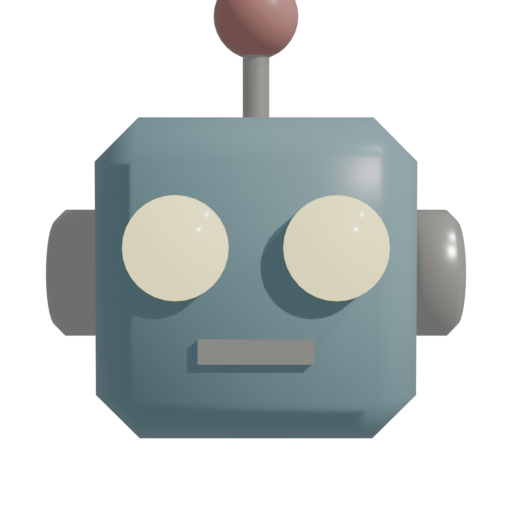
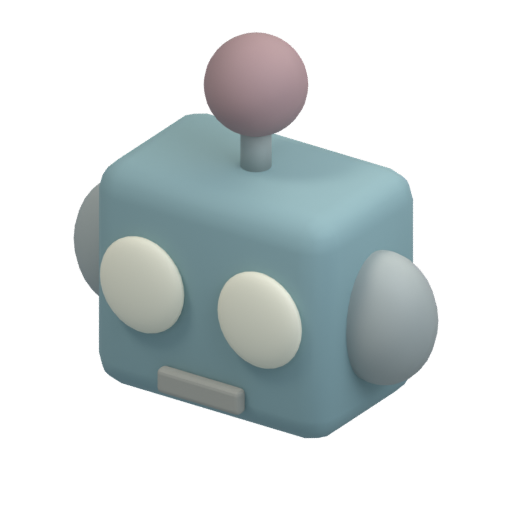
fix(art): complete robot sprite and legacy asset audit

diff --git a/assets/harvest_3d/source/pipeline/audit.py b/assets/harvest_3d/source/pipeline/audit.py
@@ -60,7 +60,8 @@ def measure(path):
     }
 
 
-def check(path, m, allow_edge=False, deep=False, floats=False):
+def check(path, m, allow_edge=False, deep=False, floats=False,
+          black_outline=False):
     rules = dict(CONTRACT['audit'])
     if floats:
         # A butterfly or a windmill's sails never touch the ground; the
@@ -104,7 +105,8 @@ def check(path, m, allow_edge=False, deep=False, floats=False):
         if abs(off) > float(rules['footprint_centre_tolerance_px']):
             errors.append('footprint centre is %+.0f px from the pivot column %d'
                           % (off, px))
-    if m['semi'] and m['black_fringe'] / m['semi'] > float(rules['black_fringe_max_fraction']):
+    if (not black_outline and m['semi']
+            and m['black_fringe'] / m['semi'] > float(rules['black_fringe_max_fraction'])):
         errors.append('%d of %d semi-transparent pixels are black: a dark fringe, the '
                       'alpha was premultiplied or the background leaked in'
                       % (m['black_fringe'], m['semi']))
@@ -232,6 +234,7 @@ def main(argv):
     edge_ok = set()
     deep = set()
     floats = set()
+    black_outline = set()
     if manifest:
         for a in manifest.get('assets', []):
             if a.get('footprint_reaches_edge'):
@@ -240,6 +243,8 @@ def main(argv):
                 deep.add(a['id'])
             if a.get('floats'):
                 floats.add(a['id'])
+            if a.get('audit', {}).get('black_outline'):
+                black_outline.add(a['id'])
             if list(a.get('ground_pivot_pixel', [])) != list(CONTRACT['ground_pivot_pixel']):
                 print('ERROR manifest: %s pivot %s, contract %s'
                       % (a['id'], a.get('ground_pivot_pixel'), CONTRACT['ground_pivot_pixel']))
@@ -261,6 +266,29 @@ def main(argv):
                 deep.add(r.stem)
             if recipe.get('floats'):
                 floats.add(r.stem)
+        # Older hand-painted props have per-file notes for items and buildings
+        # that are not made by the current Blender recipe set.
+        for png in pngs:
+            sidecar = png.with_suffix('.json')
+            if not sidecar.is_file():
+                continue
+            metadata = json.loads(sidecar.read_text())
+            policy = metadata.get('audit', {})
+            if not isinstance(policy, dict):
+                print('ERROR %s: audit sidecar field must be an object' % sidecar.name)
+                return 1
+            invalid = {key: value for key, value in policy.items()
+                       if key not in {'deep_footprint', 'floats', 'black_outline'}
+                       or not isinstance(value, bool)}
+            if invalid:
+                print('ERROR %s: invalid audit policy %s' % (sidecar.name, invalid))
+                return 1
+            if policy.get('deep_footprint'):
+                deep.add(png.stem)
+            if policy.get('floats'):
+                floats.add(png.stem)
+            if policy.get('black_outline'):
+                black_outline.add(png.stem)
     failures = 0
     textures = 0
     items = []
@@ -272,7 +300,8 @@ def main(argv):
             errors = check_texture(png, m, spec)
         else:
             errors = check(png, m, allow_edge=png.stem in edge_ok, deep=png.stem in deep,
-                           floats=png.stem in floats)
+                           floats=png.stem in floats,
+                           black_outline=png.stem in black_outline)
         items.append((png.stem, m['image'], spec is not None))
         if errors:
             failures += 1

diff --git a/assets/harvest_3d/source/pipeline/test_pipeline.py b/assets/harvest_3d/source/pipeline/test_pipeline.py
@@ -58,6 +58,11 @@ for rid, r in recipes.items():
     sh = r.get('shadow', {})
     ok(isinstance(sh.get('baked'), bool) and len(sh.get('size', [])) == 2,
        '%s.json: shadow needs {"baked": bool, "size": [sx, sy]}' % rid)
+    audit_policy = r.get('audit', {})
+    ok(isinstance(audit_policy, dict)
+       and set(audit_policy) <= {'deep_footprint', 'floats', 'black_outline'}
+       and all(isinstance(value, bool) for value in audit_policy.values()),
+       '%s.json: audit policy must use known boolean flags' % rid)
 
 # 2. the data and the runtime agree with the recipes
 crop_ids = [c['id'] for c in json.load(open(GAME / 'data/harvest_crops.json'))]
@@ -134,6 +139,8 @@ with tempfile.TemporaryDirectory() as tmp:
     fringe.save(fringe_path)
     errs = audit.check(fringe_path, audit.measure(fringe_path))
     ok(any('fringe' in e for e in errs), 'a black-fringed carrot was accepted')
+    errs = audit.check(fringe_path, audit.measure(fringe_path), black_outline=True)
+    ok(not any('fringe' in e for e in errs), 'an explicit outline policy was ignored')
 
     blank = Image.new('RGBA', (512, 512))
     blank_path = Path(tmp) / 'blank.png'

diff --git a/assets/harvest_3d/source/pipeline/models/robot.py b/assets/harvest_3d/source/pipeline/models/robot.py
@@ -1,0 +1,24 @@
+"""A friendly, softly bevelled robot head with a restored round antenna."""
+
+
+def build(S, P):
+    M = S.M
+
+    # The head is a rounded toy shell. Soft oval ear drums sit just outside it.
+    S.block('Robot | head shell', (0, 0, 1.02), (1.36, 0.88, 1.18),
+            M['robot_shell'], bevel=0.15, smooth=True)
+    for side in (-1, 1):
+        S.uv('Robot | ear pod', (side * 0.73, 0.0, 1.0),
+             (0.28, 0.24, 0.34), M['robot_side'], 24, 16)
+
+    # Warm eyes and a small mouth keep the face legible at visitor-icon size.
+    for side in (-1, 1):
+        S.uv('Robot | eye', (side * 0.34, -0.47, 1.07),
+             (0.24, 0.07, 0.25), M['white'], 24, 16)
+
+    S.block('Robot | mouth', (0.0, -0.468, 0.60), (0.48, 0.07, 0.13),
+            M['robot_mouth'], bevel=0.025, smooth=False)
+    S.cyl('Robot | antenna stem', (0.0, 0.0, 1.74), 0.075, 0.34,
+          M['robot_side'], verts=24, smooth=True)
+    S.uv('Robot | antenna orb', (0.0, 0.0, 2.04),
+         (0.25, 0.25, 0.25), M['robot_antenna'], 32, 20)

diff --git a/assets/harvest_3d/source/pipeline/build.py b/assets/harvest_3d/source/pipeline/build.py
@@ -95,12 +95,15 @@ def project_anchors(studio, recipe):
 
 def sidecar_metadata(recipe, entry):
     """Keep explicit anchors even for assets whose contact shadow is baked."""
-    if entry['contact_shadow_baked'] and not entry.get('anchors_px'):
+    if (entry['contact_shadow_baked'] and not entry.get('anchors_px')
+            and not entry.get('audit')):
         return None
     metadata = {'contact_shadow_baked': entry['contact_shadow_baked'],
                 'source': 'pipeline/recipes/%s.json' % recipe['id']}
     if entry.get('anchors_px'):
         metadata['anchors_px'] = entry['anchors_px']
+    if entry.get('audit'):
+        metadata['audit'] = entry['audit']
     return metadata
 
 
@@ -183,6 +186,8 @@ def main(argv):
             entry['deep_footprint'] = True
         if r.get('floats'):
             entry['floats'] = True
+        if r.get('audit'):
+            entry['audit'] = r['audit']
         if r.get('anchors'):
             entry['anchors_px'] = project_anchors(S, r)
         if opts['glb']:

diff --git a/assets/harvest_3d/source/pipeline/test_pipeline_contracts.py b/assets/harvest_3d/source/pipeline/test_pipeline_contracts.py
@@ -93,6 +93,14 @@ class BuildContractTests(unittest.TestCase):
             self.assertEqual(metadata['contact_shadow_baked'], baked)
             self.assertEqual(metadata['anchors_px'], anchors)
 
+    def test_sidecar_preserves_explicit_audit_policy(self):
+        policy = {'black_outline': True}
+        metadata = build.sidecar_metadata(
+            {'id': 'basket_empty'},
+            {'contact_shadow_baked': True, 'audit': policy})
+        self.assertEqual(metadata['audit'], policy)
+        self.assertEqual(metadata['source'], 'pipeline/recipes/basket_empty.json')
+
     def test_manifest_anchor_coordinates_must_be_finite_in_canvas(self):
         self.assertEqual(audit.check_anchors({'surface': [256.0, 438.7]}), [])
         for anchors in ([], {'surface': [512, 200]}, {'surface': [float('inf'), 200]},

diff --git a/PLAN.md b/PLAN.md
@@ -194,21 +194,22 @@ These are yours to make. Nothing below has been changed without asking.
    `SubViewport`) with 32 GLB models under `assets/props_3d/`. The farm
    itself stays 2.5D. What still wants a decision: whether the farm's world
    layer follows, or whether the two styles meet only at the bear's door.
-5. **The asset pipeline is one studio and 73 recipes, and it has been
+5. **The asset pipeline is one studio and 74 recipes, and it has been
    run.** `assets/harvest_3d/source/pipeline/` opens the frozen render profile
    every shipped sprite came from, frames its camera on the (256, 467) pivot,
    and renders one model per recipe; `build.py` also writes the manifest and
    runs the Pillow audit and contact sheet. The 17 crops still match
    `assets/harvest_3d/crops/` to 0 or 1 pixel. On 10 October, Blender 5.2.2
-   rendered all 73 current recipes on this Mac; the full generated set passed
-   the audit with zero failures. `soil_cover` now has a `from_glb` recipe, and
+   rendered all 74 current recipes on this Mac; the full generated set passed
+   the audit with zero failures. `robot` now has a reproducible Blender model
+   with its complete antenna inside the frame. `soil_cover` has a `from_glb` recipe, and
    its GLB and frozen-profile fingerprints are checked against the actual
    files. `soil_grass_patch` was re-rendered through the same profile and
-   installed (the old one was lit by the other rig). What is left: retire the
-   fifteen old scripts (keep the frozen profile .blend they share) and bring
-   the remaining legacy prop sprites into the same audit contract. The
-   checked-in prop folder still has ten audit failures; see current
-   follow-through below.
+   installed (the old one was lit by the other rig). The checked-in crop and
+   prop sprites now pass the static audit; per-asset sidecar notes distinguish
+   hand-painted outlines and non-floor icons from accidental alpha fringes.
+   What remains is to retire the fifteen old scripts (keep the frozen profile
+   .blend they share).
 6. **The save file has two version fields.** `SAVE_VERSION` is written on
    every save and never read. `FARM_SAVE_VERSION` is the one migrations use.
    Folding them into one is a small change, but it touches every existing save,
@@ -249,15 +250,14 @@ These are yours to make. Nothing below has been changed without asking.
   30 passed and 0 skipped after the care, planting, and tilling controller
   extractions and touch fix;
   `tools_check.py` reports 0 errors and 208 warnings.
-- **3D pipeline follow-through:** Blender 5.2.2 rendered all 73 recipes into a
-  temporary review directory; all 73 passed the generated-output audit. The
-  separate static audit in `test_pipeline.py` still finds ten issues in the
-  checked-in props: semi-transparent dark edge pixels on `basket_empty`,
-  `building_beehive`, `building_cow_shed`, `milk`, `tool_trowel`, and
-  `tool_watering_can`; incorrect ground anchors on `firefly`, `fish`, and
-  `honey`; and a clipped antenna on `robot`. The current generated trowel and
-  watering can are much plainer than the shipped painted props, so they were
-  kept out of the project rather than replacing the better-looking art.
+- **3D pipeline follow-through:** Blender 5.2.2 rendered all 74 recipes into a
+  temporary review directory; all 74 passed the generated-output audit. The
+  robot now has a source model and complete antenna in both world and UI art.
+  The checked-in crop and prop folders pass their static audits. Legacy
+  hand-painted outlines and icons that do not sit on the ground are recorded
+  per asset, so the test keeps rejecting unapproved alpha fringes and bad
+  anchors. The generated trowel and watering can remain uninstalled because
+  they are plainer than the shipped painted versions.
 
 ---
 

diff --git a/assets/harvest_3d/source/pipeline/README.md b/assets/harvest_3d/source/pipeline/README.md
@@ -1,6 +1,6 @@
 # Harvest sprite pipeline
 
-One studio, one recipe per asset, one command. There are now 73 recipes for
+One studio, one recipe per asset, one command. There are now 74 recipes for
 the shipped crops and farm props. It reproduces every crop to the pixel (0 or
 1 differing pixels of 262,144, measured against `../../crops/*.png`), so it
 can replace the fifteen one-off Blender scripts that produced them: those
@@ -21,11 +21,18 @@ audit with zero failures. The audit and the self-test need only Pillow.
 | `palette.json` | every material the models use, by key (`M['leaf']`) |
 | `studio.py` | Blender side: opens the frozen profile (world, Sun key, two Area lights, Standard view at −0.2 EV), keeps only its camera and lamps, frames the camera so the world origin lands on the pivot, and offers the primitives, the optional baked shadow, mesh repair, render and GLB |
 | `models/<name>.py` | geometry only: `build(S, P)`; `S` is the studio, `P` the recipe's params. `from_glb.py` imports existing geometry instead |
-| `recipes/<id>.json` | which model, which params, shadow policy, optional `ortho_scale` and named local `anchors`, where it installs |
+| `recipes/<id>.json` | which model, which params, shadow policy, optional `ortho_scale`, named local `anchors`, audit policy, where it installs |
 | `build.py` | walks the recipes, renders, writes `manifest.json`, runs the audit |
 | `audit.py` | no Blender: size, alpha, ground line, footprint, fringe, projected anchors, tiled material coverage/seams, contact sheet |
 | `test_pipeline.py` | recipes ↔ `data/harvest_crops.json` ↔ `harvest_visual_art.gd`, audit on the shipped PNGs, break-it-once |
 | `test_pipeline_contracts.py` | no Blender: audit interpreter selection, anchor coordinates/sidecars, texture fault injection |
+
+The checked-in legacy props may add an `audit` object to their sidecar for
+their actual placement (`floats` for UI/flying art, `deep_footprint` for broad
+buildings) and intentional ink outlines. This keeps the shared anchor checks
+useful without treating a hand-painted outline as alpha contamination. New
+Blender outputs still have to pass the same fringe check unless their recipe
+explicitly declares an outline.
 
 ## Run it
 

diff --git a/CHANGELOG.md b/CHANGELOG.md
@@ -1,5 +1,12 @@
 # Changelog
 
+## 机器人素材补全与旧道具审计归零 — 10 October 2026
+
+- 为机器人新增 Blender 模型和配方，重新生成世界层与 3D 图标贴图；完整天线留在 512×512 画布内。
+- 为遗留道具补上逐图审计标记：区分真实的深色手绘描边、漂浮/界面图标和宽底建筑，不放宽其他素材的裁切、接地和黑边检查。
+- Blender 5.2.2 全量渲染 74 个配方，生成集审计通过；项目中的 17 张作物图和 65 张道具图静态审计也全部通过。
+- `test_pipeline.py` 与 18 项管线契约测试通过；铲子与浇水壶继续保留现有彩绘图。
+
 ## 翻地状态迁移独立与整套回归 — 10 October 2026
 
 - 新增 `farm_plot_tilling_controller.gd`，把“空草地 → 已翻地”的纯转换从 `garden_screen.gd` 拆出；点击、铲子刷地、提示导演共用它，并拒绝重复翻已种植地。
